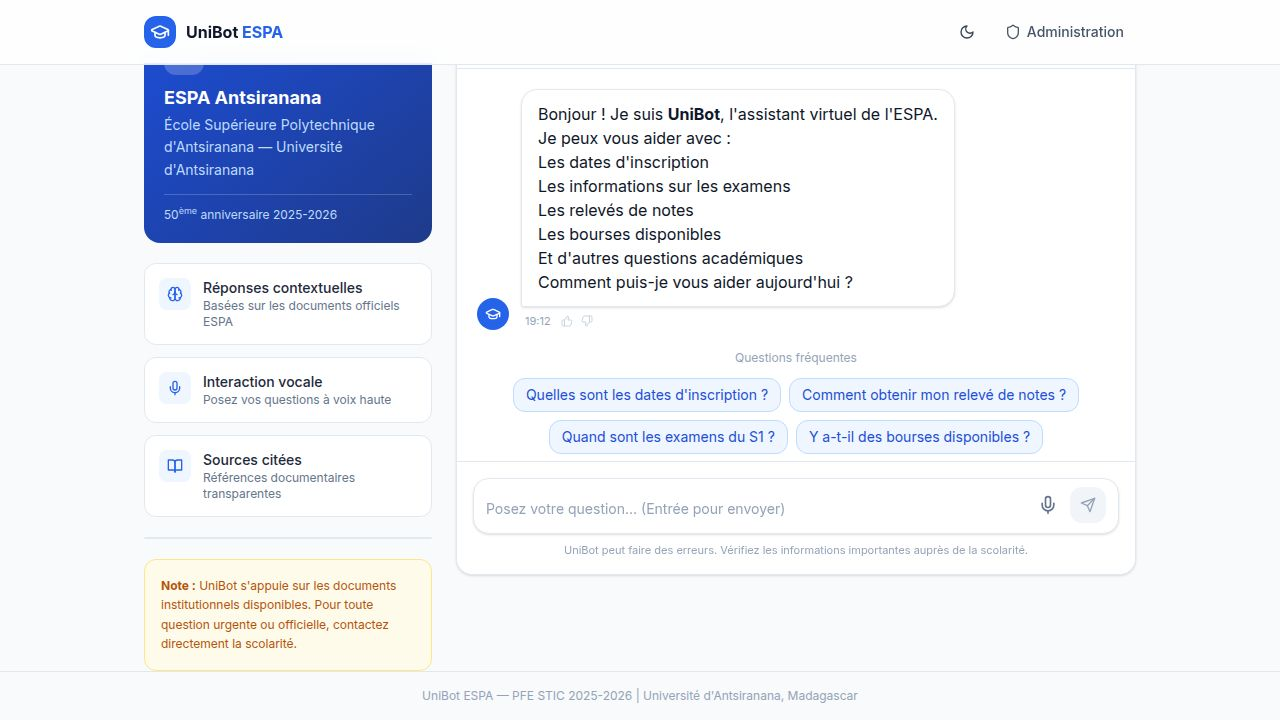
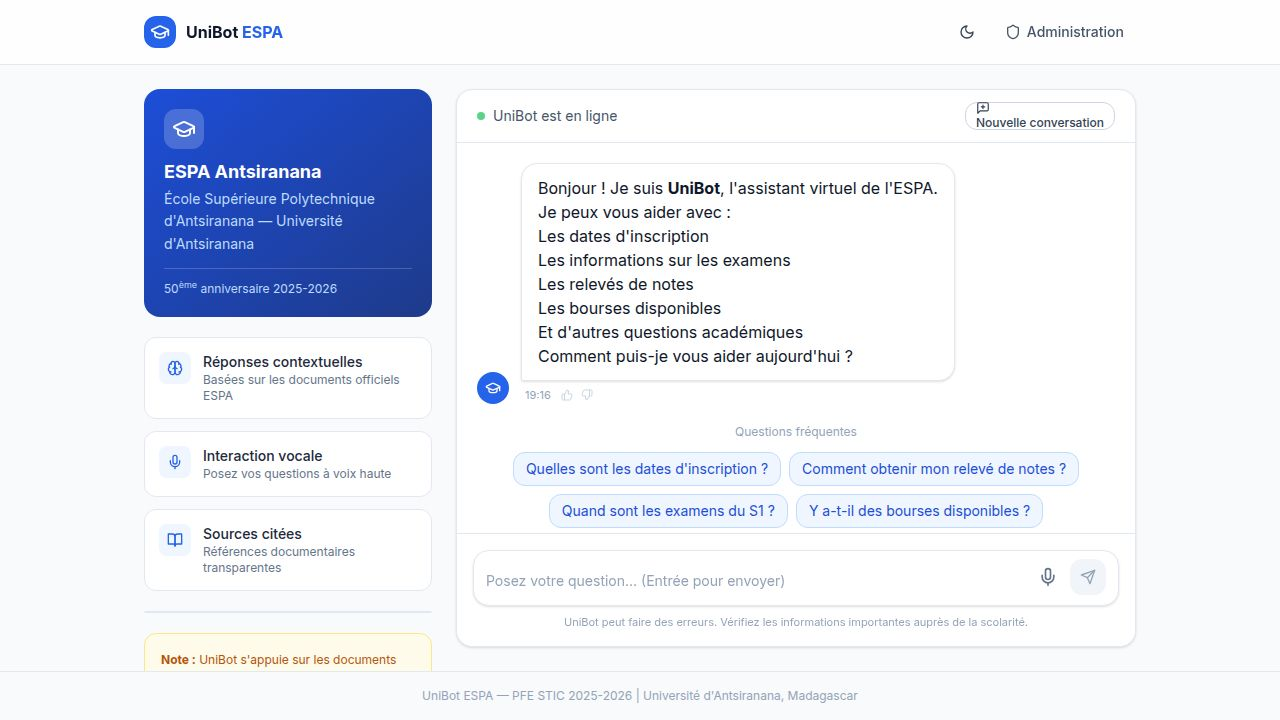
Refactor chat layout and scroll behavior
Replit-Commit-Author: Agent

diff --git a/frontend/src/components/chat/ChatWindow.tsx b/frontend/src/components/chat/ChatWindow.tsx
@@ -57,7 +57,7 @@ export function ChatWindow() {
     clearMessages,
   } = useChat()
 
-  const bottomRef = useRef<HTMLDivElement>(null)
+  const messagesContainerRef = useRef<HTMLDivElement>(null)
   const hasOnlyWelcome = messages.length === 1
   const hasEnoughMessages = messages.length >= 5
   const susAlreadySubmitted = localStorage.getItem(SUS_SUBMITTED_KEY) === 'true'
@@ -73,7 +73,13 @@ export function ChatWindow() {
     historyRestored && restoredMessageCount > 0 && !bannerDismissed
 
   useEffect(() => {
-    bottomRef.current?.scrollIntoView({ behavior: 'smooth' })
+    const container = messagesContainerRef.current
+    if (!container) return
+
+    container.scrollTo({
+      top: container.scrollHeight,
+      behavior: 'smooth',
+    })
   }, [messages])
 
   function handleNewConversation() {
@@ -176,7 +182,10 @@ export function ChatWindow() {
       )}
 
       {/* Messages */}
-      <div className="min-h-0 flex-1 overflow-y-auto overscroll-contain px-5 py-5 space-y-5">
+      <div
+        ref={messagesContainerRef}
+        className="min-h-0 flex-1 overflow-y-auto overscroll-contain px-5 py-5 space-y-5"
+      >
         {messages.map((msg: Message, index: number) => {
           const isFirstRestored = index === 1 && restoredMessageCount > 0 && historyRestored
 
@@ -242,7 +251,6 @@ export function ChatWindow() {
           </div>
         )}
 
-        <div ref={bottomRef} />
       </div>
 
       {/* Input */}

diff --git a/frontend/src/pages/ChatPage.tsx b/frontend/src/pages/ChatPage.tsx
@@ -47,10 +47,10 @@ export function ChatPage() {
       </header>
 
       {/* Main */}
-      <main className="flex-1 min-h-0 max-w-screen-lg mx-auto w-full px-4 py-6 overflow-hidden">
-        <div className="flex h-full min-h-0 flex-col lg:flex-row items-stretch gap-6">
+      <main className="flex-1 h-full min-h-0 max-w-screen-lg mx-auto w-full px-4 py-6 overflow-hidden">
+        <div className="grid h-full min-h-0 grid-cols-1 lg:grid-cols-[18rem_minmax(0,1fr)] gap-6">
           {/* Sidebar info */}
-          <aside className="hidden lg:flex flex-col gap-5 w-72 flex-shrink-0">
+          <aside className="hidden lg:flex min-h-0 flex-col gap-5">
           {/* ESPA info card */}
           <div className="bg-gradient-to-br from-primary-700 to-primary-900 rounded-2xl p-5 text-white">
             <div className="w-10 h-10 rounded-xl bg-white/20 flex items-center justify-center mb-3">
@@ -92,7 +92,7 @@ export function ChatPage() {
           </aside>
 
           {/* Chat */}
-          <div className="flex-1 min-w-0 min-h-0 bg-white dark:bg-neutral-900 rounded-2xl border border-neutral-200 dark:border-neutral-800 shadow-card overflow-hidden flex flex-col">
+          <div className="min-w-0 min-h-0 bg-white dark:bg-neutral-900 rounded-2xl border border-neutral-200 dark:border-neutral-800 shadow-card overflow-hidden flex flex-col">
             <ChatWindow />
           </div>
         </div>
